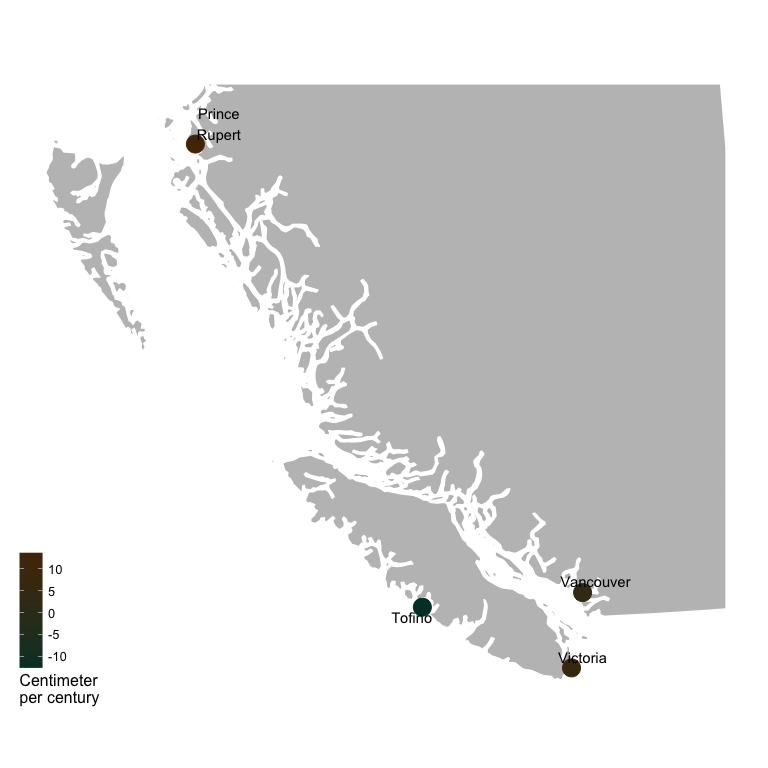
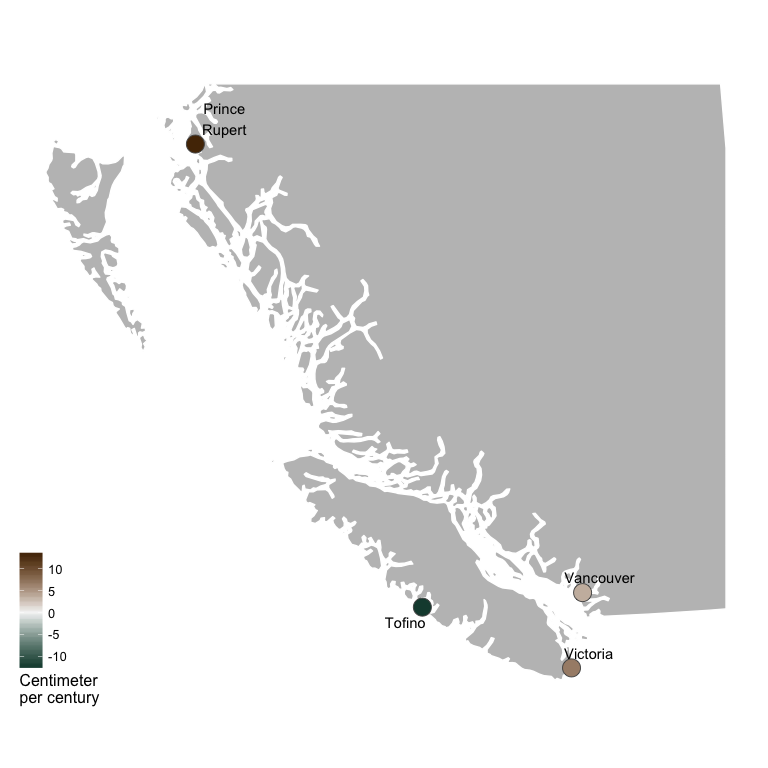
Update README

diff --git a/README.md b/README.md
@@ -41,19 +41,19 @@ Utilisation
 library(cccharts)
 #> Loading required package: ggplot2
 plot_estimates(data = cccharts::sea_surface_temperature_station, x = "Season", facet = "Station")
-#> Warning: 1 data points have inconsistent significance and limits
+#> Warning: 1 data points have inconsistent significance and confidence limits
 ```
 
 ![](README-unnamed-chunk-2-1.png)
 
 ``` r
-map_estimates(data = cccharts::sea_level_station, station = TRUE, bounds = c(0.1,0.7,0,0.55), mid = NULL)
+map_estimates(data = cccharts::sea_level_station, station = TRUE, bounds = c(0.1,0.7,0,0.55))
 ```
 
 ![](README-unnamed-chunk-3-1.png)
 
 ``` r
-plot_fit(data = dplyr::filter(cccharts::flow_station_timing, Term == "Medium"), observed = cccharts::flow_station_timing_observed, facet = "Station")
+plot_fit(data = dplyr::filter(cccharts::flow_station_discharge, Term == "Medium", Statistic == "Mean", Season == "Annual"), observed = cccharts::flow_station_discharge_observed, free_y = TRUE, facet = "Station")
 ```
 
 ![](README-unnamed-chunk-4-1.png)
